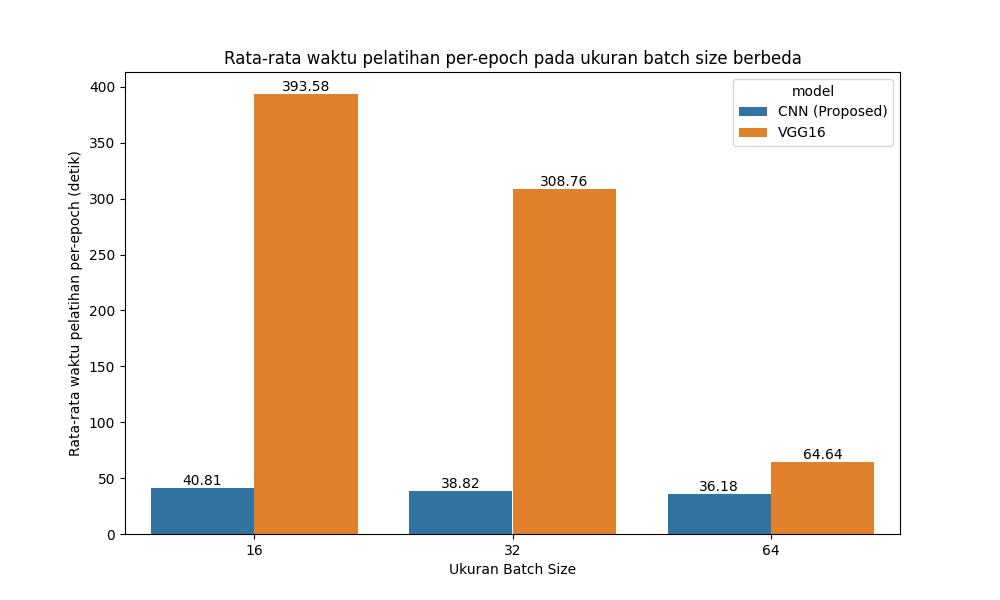
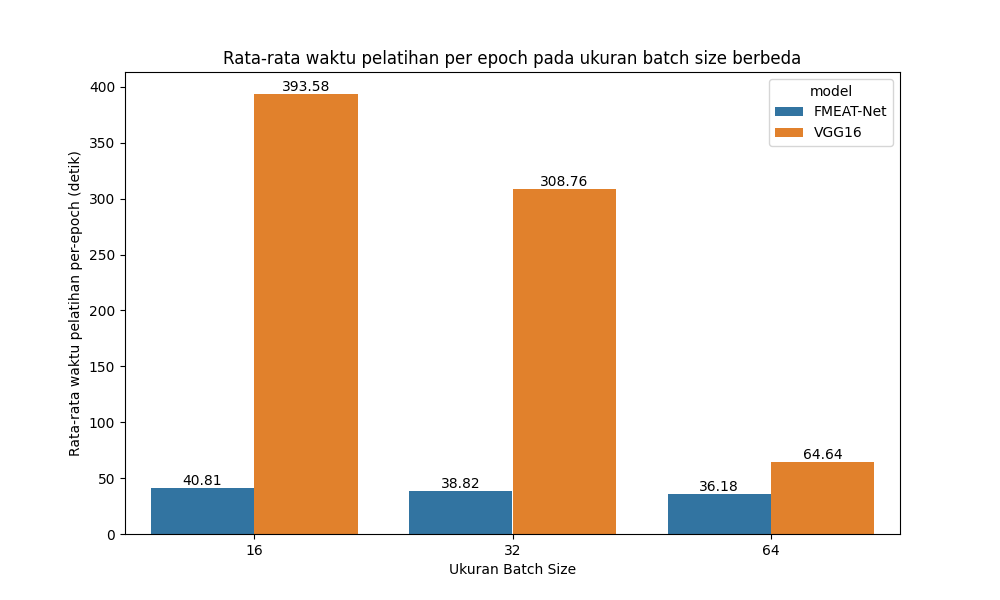
insight: update proposed cnn model name to FMEAT-Net

Changed region(s): [[0.217, 0.09, 0.806, 0.12], [0.713, 0.12, 0.899, 0.24]]

diff --git a/debug.py b/debug.py
@@ -292,38 +292,47 @@
 # Get data insight
 # =============================================================================
 
-# import helper
-# import pandas as pd
+import helper
+import pandas as pd
 
-# df_source = pd.read_excel("./logs-main.xlsx")
+df_source = pd.read_excel("./logs-main.xlsx")
 
-# # Mengatur ulang value dari kolom
-# df_source["augmented"] = df_source["augmented"].map(
-#     {0: "Tanpa augmentasi", 1: "Augmentasi"}
-# )
-# df_source["model"] = df_source["model"].map(
-#     {"cnn": "CNN (Proposed)", "vgg": "VGG16"}
-# )
-# df_source["mixed_precision_mode"] = df_source["mixed_precision_mode"].map(
-#     {0: "(FP32, FP32)", 1: "(FP16, FP32)", 2: "(FP64, FP64)"}
-# )
+# Mengatur ulang value dari kolom
+df_source["augmented"] = df_source["augmented"].map(
+    {0: "Tanpa augmentasi", 1: "Augmentasi"}
+)
+df_source["model"] = df_source["model"].map(
+    {"cnn": "FMEAT-Net", "vgg": "VGG16"}
+)
+df_source["mixed_precision_mode"] = df_source["mixed_precision_mode"].map(
+    {0: "(FP32, FP32)", 1: "(FP16, FP32)", 2: "(FP64, FP64)"}
+)
 
-# print(df_source.head())
+print(df_source.head())
 
-# # df = df_source
+df = df_source
 # df = df_source[df_source["test_accuracy"] != -1]
 
-# helper.plot_bar_mean(
-#     x_column="batch_size",
-#     y_column="test_accuracy",
-#     x_label="Ukuran Batch Size",
-#     y_label="Rata-rata akurasi pengujian (%)",
-#     hue_column="model",
-#     groupby_column=["batch_size", "model"],
-#     plot_title="Rata-rata akurasi pengujian pada ukuran batch size berbeda",
-#     df=df,
-#     multiply_y_column_by=100,
-# )
+helper.plot_bar_mean(
+    x_column="batch_size",
+    # y_column="test_accuracy",
+    # y_column="average_training_time",
+    # y_column="average_gpu_watt_usage",
+    y_column="average_gpu_vram_usage",
+    x_label="Ukuran Batch Size",
+    # y_label="Rata-rata akurasi pengujian (%)",
+    # y_label="Rata-rata waktu pelatihan per-epoch (detik)",
+    # y_label="Rata-rata penggunaan daya GPU (Watt)",
+    y_label="Rata-rata penggunaan VRAM GPU (MB)",
+    hue_column="model",
+    groupby_column=["batch_size", "model"],
+    # plot_title="Rata-rata akurasi pengujian pada arsitektur CNN berbeda",
+    # plot_title="Rata-rata waktu pelatihan per epoch pada arsitektur CNN size berbeda",
+    # plot_title="Rata-rata penggunaan daya GPU pada konfigurasi augmentasi berbeda",
+    plot_title="Rata-rata penggunaan VRAM GPU pada ukuran batch size berbeda",
+    df=df,
+    # multiply_y_column_by=100,
+)
 
 # =============================================================================
 # Best model chart
@@ -402,24 +411,24 @@
 # =============================================================================
 # Model summary
 # =============================================================================
-from torchsummary import summary
-from models import CNNModel, VGGModel
+# from torchsummary import summary
+# from models import CNNModel, VGGModel
 
-summary(
-    model=CNNModel(),
-    input_size=(
-        3,
-        112,
-        112,
-    ),
-)
+# summary(
+#     model=CNNModel(),
+#     input_size=(
+#         3,
+#         112,
+#         112,
+#     ),
+# )
 
-summary(
-    model=VGGModel(),
-    input_size=(
-        3,
-        112,
-        112,
-    ),
-)
+# summary(
+#     model=VGGModel(),
+#     input_size=(
+#         3,
+#         112,
+#         112,
+#     ),
+# )
 # =============================================================================
